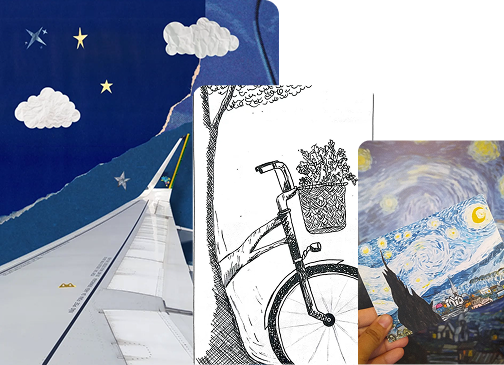
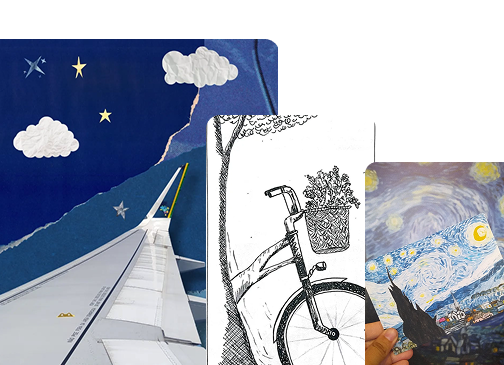
refac: about me cards adjustments and also added animation

diff --git a/src/app/components/cards/about-me-card.tsx b/src/app/components/cards/about-me-card.tsx
@@ -3,6 +3,7 @@
 import Image from "next/image";
 
 
+
 interface AboutMeCardProps {
   name: string;
   description: string;
@@ -11,20 +12,17 @@ interface AboutMeCardProps {
 
 export function AboutMeCard({name, description, image}: AboutMeCardProps) {
   return (
-/*     <div className="bg-card max-w-sm rounded-4xl content-end justify-between">
- */
-    <div className="flex flex-col items-center justify-between overflow-hidden rounded-4xl bg-card max-w-sm">
-        <div className="flex flex-col w-full h-full justify-center items-center py-6">
-            <div className="text-xl md:text-4xl text-center font-bold">{name}</div>
-            <p className="text-xs md:text-md lg:text-base mt-2 text-center text-[#808080] max-w-4/5">{description}</p>
+      <div className="group flex flex-col items-center justify-between overflow-hidden rounded-3xl border-[1px] pt-16 transition dark:border-transparent bg-card">
+        <div>
+          <div className="text-center text-xl md:text-4xl font-bold dark:text-white">{name}</div>
+          <p className="text-xs md:text-md lg:text-base mt-2 text-center text-gray-400">{description}</p>
         </div>
-        <Image 
-            src={image} 
-            width="504" 
-            height="365" 
-            alt="" 
-            className="rounded-b-4xl"
-        />
-    </div>
+        <Image
+          src={image}
+          alt={name}
+          width="504"
+          height="365"
+          className="transition duration-500 ease-out origin-center scale-105 group-hover:scale-115" />
+      </div>
   );
 }

diff --git a/src/app/page.tsx b/src/app/page.tsx
@@ -6,7 +6,7 @@ import { FaGithub, FaLinkedin } from "react-icons/fa";
 import { IoMdMail } from "react-icons/io";
 import { AboutMeCards } from "./components/cards/about-me-cards";
 import { ProjectsCards } from "./components/cards/projects-cards";
-import { techStack } from "./database/tech-stack-data";
+import { techStack } from "./data/tech-stack-data";
 
 export default function Home() {
   return (
@@ -46,8 +46,8 @@ export default function Home() {
                   width={100} 
                   height={100} 
                   alt="" 
-                  className="w-12 h-12 md:w-20 md:h-20 xl:w-24 xl:h-24"
-                />
+                  className="w-12 h-12 md:w-20 md:h-20 xl:w-24 xl:h-24 hover:scale-125 duration-200"
+                  />
               ))}
             </div>
             <a href="/skills" className="flex gap-1 items-center cursor-pointer hover:text-primary">

diff --git a/src/app/components/cards/about-me-cards.tsx b/src/app/components/cards/about-me-cards.tsx
@@ -1,11 +1,13 @@
 'use client';
 
-import { aboutMeTopics } from "@/app/database/about-me-data";
+import { aboutMeTopics } from "@/app/data/about-me-data";
 import { AboutMeCard } from "./about-me-card";
 
+{/* <div className="grid grid-cols-2 mx-6 lg:mx-0 mt-10 gap-5 md:gap-4">
+ */}
 export function AboutMeCards() {
   return (
-    <div className="grid grid-cols-2 mx-6 lg:mx-0 mt-10 gap-5 md:gap-4">
+    <div className="grid grid-cols-1 gap-4 md:grid-cols-2 mt-10 mx-10 xl:mx-0 ">
         {aboutMeTopics.map((topic) => (
           <AboutMeCard
             key={topic.id}

diff --git a/src/app/data/about-me-data.ts b/src/app/data/about-me-data.ts
@@ -9,7 +9,7 @@ export const aboutMeTopics = [
         id: 2,
         name: "Bookshelf",
         description: "Here are some books I've enjoyed reading.",
-        image: "/about-me/books2.png",
+        image: "/about-me/books.png",
     },
     {
         id: 3,

diff --git a/src/app/components/cards/projects-cards.tsx b/src/app/components/cards/projects-cards.tsx
@@ -1,6 +1,6 @@
 'use client';
 
-import { projects } from "@/app/database/project-data";
+import { projects } from "@/app/data/project-data";
 import { ProjectCard } from "./project-card";
 
 export function ProjectsCards() {
